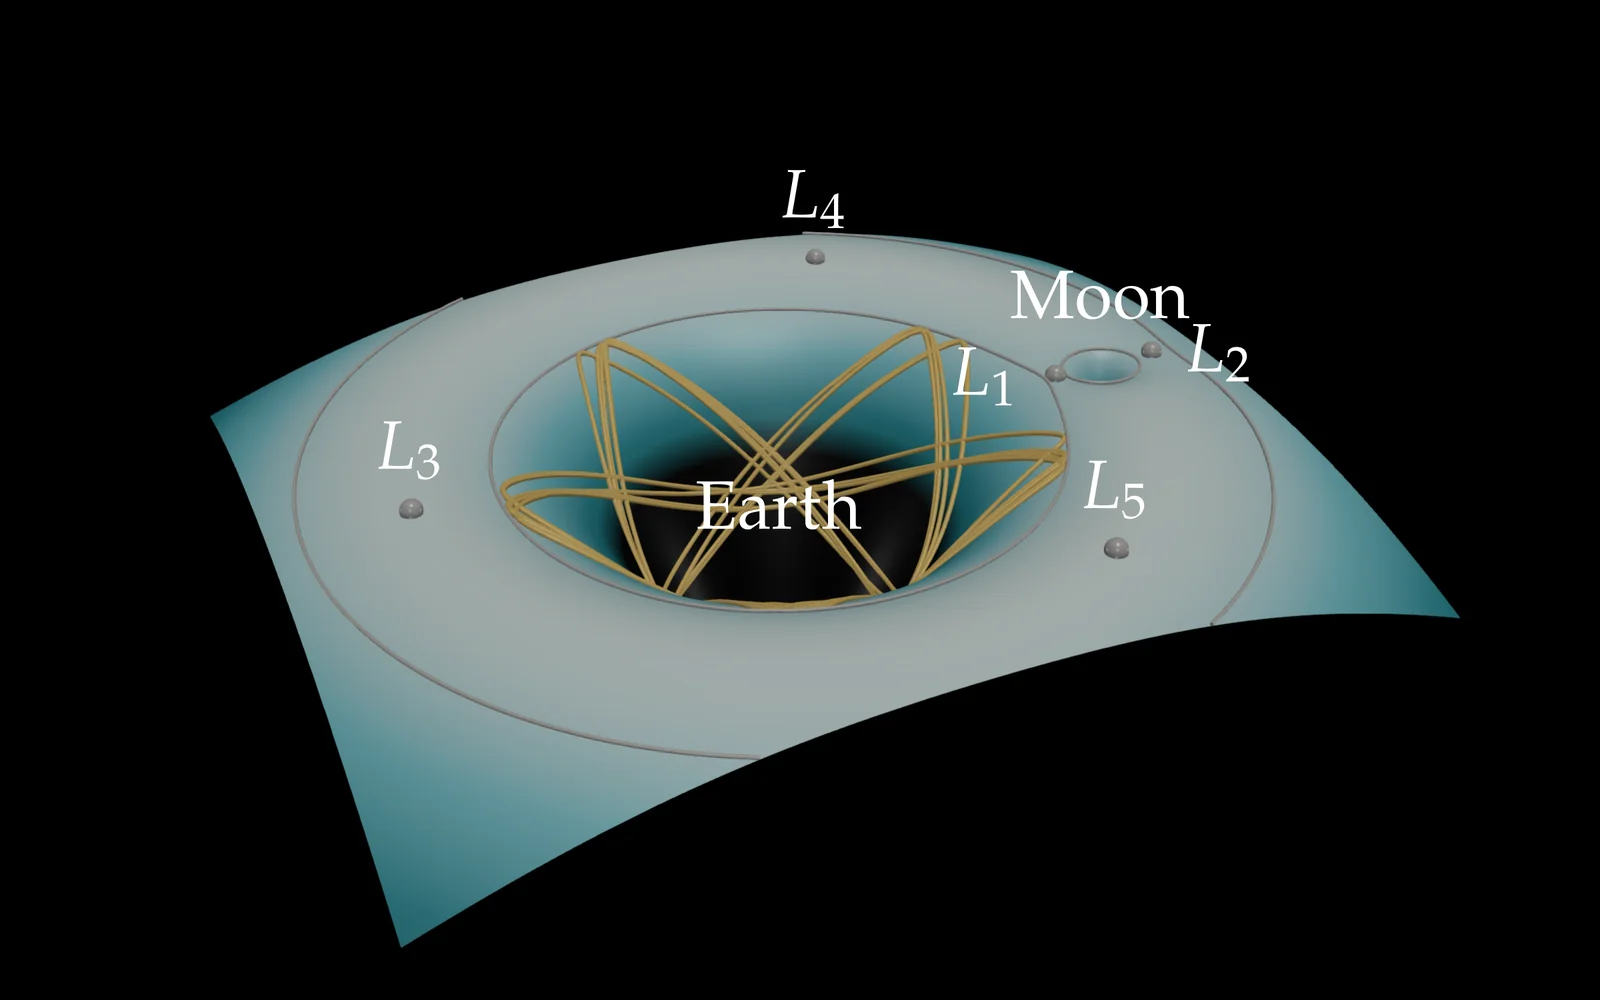
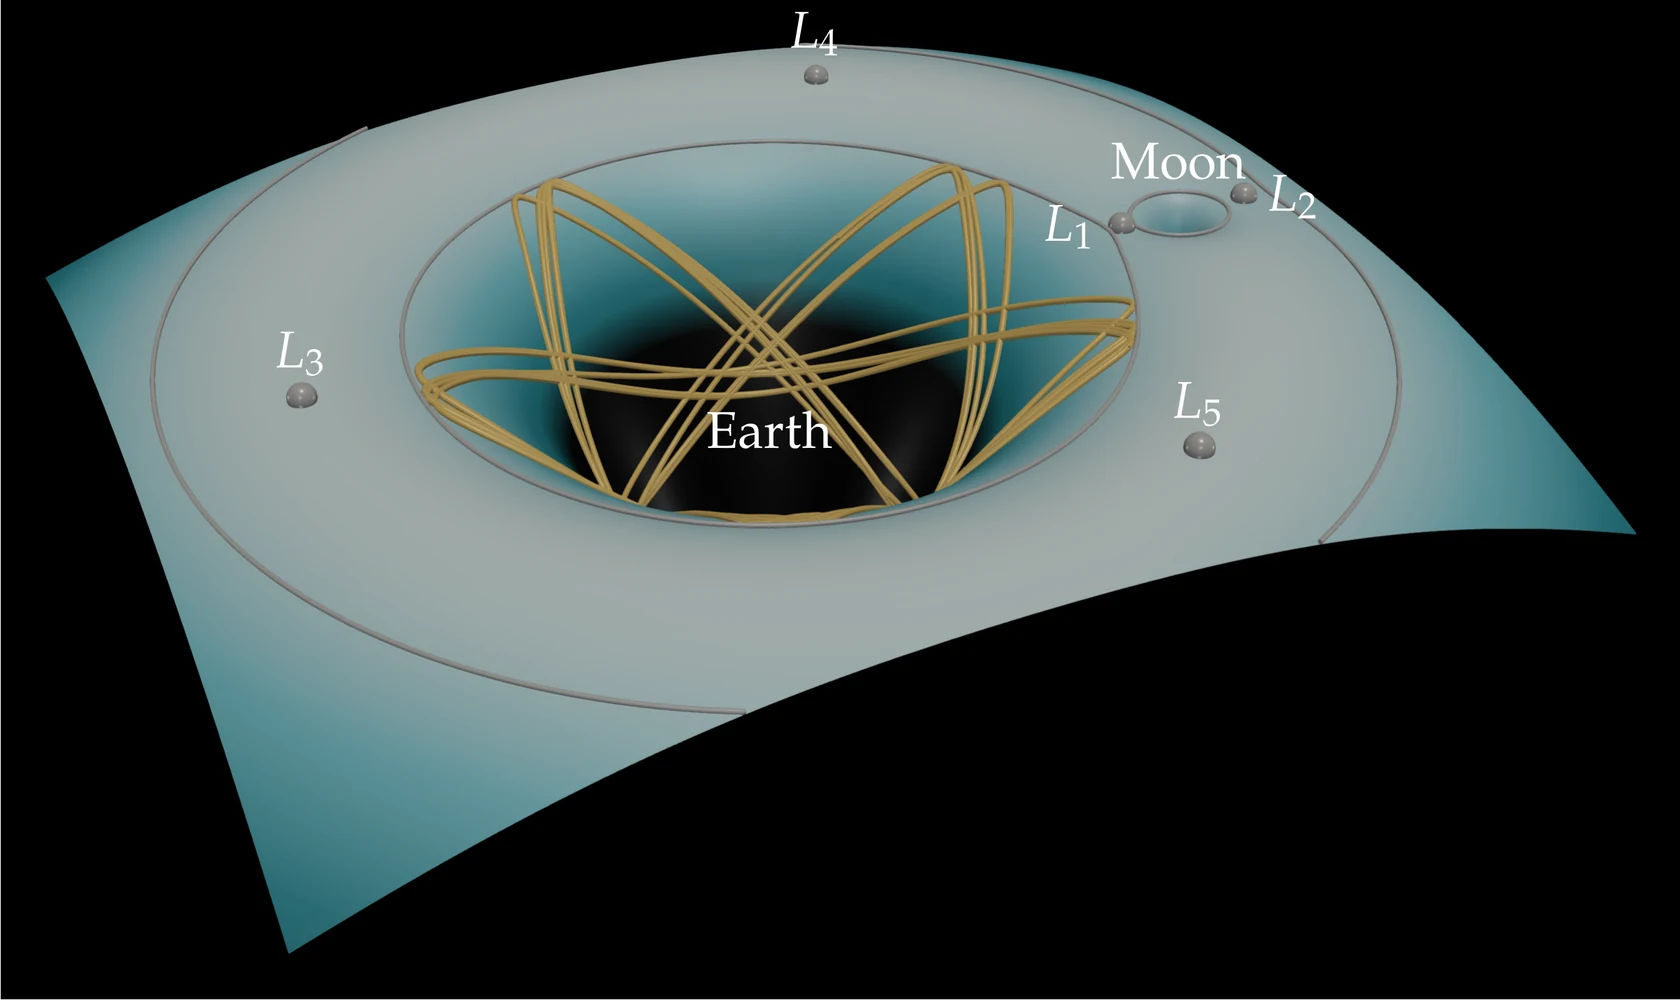
Figure to the OpenONDA figure spec; README shows it at 560 px
Cropped to its content, labels above panels on a shared baseline, a
short colour bar in the bottom-right corner, brushed-metal solids, and a
check that no text covers the drawing.

diff --git a/scripts/render/overlay.py b/scripts/render/overlay.py
@@ -1,94 +1,166 @@
-"""LaTeX overlay for the website renders, after the OpenONDA tutorial figures.
+"""LaTeX overlay for the website and README figures, after the OpenONDA tutorial figures.
 
-Puts a raw render on a fixed 16:10 canvas (90 mm x 56.25 mm) and adds white
-New PX text at 10.95 pt plus at most one vertical colour bar with end ticks.
-At the 600 px card width that text is about 26 px high, so it stays legible.
+Figure spec
+- Canvas 125 mm wide (the OpenONDA figure width), height set by the content.
+- Text: New PX at 10.95 pt, white on black. That is about 3 % of the image
+  width, so it reads as ~12.5 pt where READMEs show the figure 560 px wide and
+  ~10.5 pt on the 475 px website cards.
+- Each panel is trimmed to its content (anything brighter than the background)
+  plus a small margin, so there is no empty headroom.
+- Panel labels sit in a strip above their panel; the single colour bar is short
+  and sits in the bottom-right corner, in its own column. Neither may cover
+  the drawing: compose() checks that every pixel the overlay changes was
+  background, and fails otherwise.
 Writes <stem>.pdf, <stem>.png (2400 px wide) and <stem>.webp (quality 85).
 
-    compose("raw.png", "out/figure", bar=dict(name="thesis_blue", vmin=0, vmax=5,
-            title=r"$|\\omega|$ [1/s]"), labels=[(60, 40, r"$\\mathbf{U}$")])
+    compose([("raw.png", "Rotor only"), ("raw2.png", "Four wings")], "out/fig",
+            bar=dict(name="thesis_blue", vmin=0, vmax=0.6, title=r"$1-u_x/U_\\infty$"))
 """
 import shutil
 import subprocess
 import tempfile
 from pathlib import Path
 
+import numpy as np
 from PIL import Image
 
 from onda_style import colour
 
-WIDTH_MM, HEIGHT_MM = 90.0, 56.25
+WIDTH_MM = 125.0
 PIXELS = 2400
+PX_PER_MM = PIXELS / WIDTH_MM
+MARGIN_MM = 2.5            # around the canvas edge and between panels
+LABEL_MM = 6.5             # strip above a labelled panel
+BAR = dict(width=2.2, height=16.0, column=17.0, labels=6.0)   # bar size, its column, room for tick labels [mm]
+BACKGROUND = 18            # grey level below which a pixel counts as background
+
+
+def trim(img, pad_mm=1.0, box_only=False):
+    """Crop to pixels brighter than the background, plus pad_mm (box_only: return the box)."""
+    a = np.asarray(img.convert("L"))
+    rows, cols = np.where(a > BACKGROUND)
+    pad = int(pad_mm * PX_PER_MM)
+    box = (max(cols.min() - pad, 0), max(rows.min() - pad, 0),
+           min(cols.max() + pad + 1, img.width), min(rows.max() + pad + 1, img.height))
+    return box if box_only else img.crop(box)
 
 
 def _num(v):
-    return f"{v:.2g}".replace("e+0", "e").replace("-", "$-$") if isinstance(v, float) else str(v)
+    return f"{v:g}".replace("-", "$-$")
 
 
-def compose(raw, stem, bar=None, labels=(), crop=None):
-    """bar: dict(name, vmin, vmax, title, fade=0.0, x=4, y=14, height=24, ticks=None)
-    labels: (x_mm, y_mm, latex, anchor) from the lower-left corner.
-    crop: (left, top, right, bottom) fractions removed from the raw image."""
-    raw, stem = Path(raw).resolve(), Path(stem)
+def compose(panels, stem, bar=None, layout="column", check=True, notes=()):
+    """panels: list of (image path, label or None); layout: "column" or "row".
+    notes: point annotations on the first panel, (fx, fy, text, anchor, dx_mm, dy_mm) with
+    fx, fy fractions of the raw image from its lower-left corner. Notes are meant to sit
+    on the drawing, so the overlap check ignores them.
+    bar: dict(name, vmin, vmax, title, fade=0.0, ticks=[(fraction, text), ...])."""
+    stem = Path(stem)
     stem.parent.mkdir(parents=True, exist_ok=True)
-    work = Path(tempfile.mkdtemp())
-    img = Image.open(raw).convert("RGB")
-    if crop:
-        w, h = img.size
-        img = img.crop((int(crop[0] * w), int(crop[1] * h), int(w - crop[2] * w), int(h - crop[3] * h)))
-    # fill the canvas: scale to cover 16:10, centred
-    target = WIDTH_MM / HEIGHT_MM
-    w, h = img.size
-    if w / h > target:
-        nw = int(h * target)
-        img = img.crop(((w - nw) // 2, 0, (w - nw) // 2 + nw, h))
+    raws = [Image.open(p).convert("RGB") for p, _ in panels]
+    boxes = [trim(r, box_only=True) for r in raws]
+    imgs = [r.crop(b) for r, b in zip(raws, boxes)]
+    labels = [lab for _, lab in panels]
+    bar_mm = BAR["column"] if bar else 0.0
+    avail = WIDTH_MM - 2 * MARGIN_MM - bar_mm
+    if layout == "column":
+        widths = [avail] * len(imgs)
+    else:   # row: equal heights, total width = avail
+        gaps = MARGIN_MM * (len(imgs) - 1)
+        k = sum(i.width / i.height for i in imgs)
+        widths = [(avail - gaps) * (i.width / i.height) / k for i in imgs]
+    heights = [w * i.height / i.width for w, i in zip(widths, imgs)]
+    lab_mm = LABEL_MM if any(labels) else 0.0
+    if layout == "column":
+        H = MARGIN_MM + sum(h + lab_mm for h in heights) + MARGIN_MM * len(imgs)
     else:
-        nh = int(w / target)
-        img = img.crop((0, (h - nh) // 2, w, (h - nh) // 2 + nh))
-    img.save(work / "raw.png")
-
-    body = [rf"\node[anchor=south west,inner sep=0] at (0,0) {{\includegraphics[width={WIDTH_MM}mm,height={HEIGHT_MM}mm]{{raw.png}}}};"]
+        H = 2 * MARGIN_MM + lab_mm + max(heights)
     if bar:
-        x, y, hgt, wid = bar.get("x", 4.0), bar.get("y", 14.0), bar.get("height", 24.0), 3.2
+        H = max(H, BAR["height"] + 12.0)
+    H = round(H, 2)
+
+    # base raster: panels on black, positions in mm from the top-left
+    W_px, H_px = PIXELS, int(round(H * PX_PER_MM))
+    base = Image.new("RGB", (W_px, H_px))
+    places, y, x = [], MARGIN_MM, MARGIN_MM
+    for img, w, h in zip(imgs, widths, heights):
+        if layout == "column":
+            px, py = MARGIN_MM, y + lab_mm
+            y = py + h + MARGIN_MM
+        else:
+            px, py = x, MARGIN_MM + lab_mm + (max(heights) - h) / 2
+            x += w + MARGIN_MM
+        places.append((px, py, w, h))
+        base.paste(img.resize((int(w * PX_PER_MM), int(h * PX_PER_MM)), Image.LANCZOS),
+                   (int(px * PX_PER_MM), int(py * PX_PER_MM)))
+
+    work = Path(tempfile.mkdtemp())
+    base.save(work / "base.png")
+    body = []
+    for (px, py, w, h), lab in zip(places, labels):
+        if lab:   # in a row, all labels share one baseline above the tallest panel
+            top = MARGIN_MM + lab_mm if layout == "row" else py
+            body.append(rf"\node[anchor=base west,white,inner sep=0] at ({px + 0.5},{H - top + 2.0}) {{{lab}}};")
+    if bar:
+        bw, bh = BAR["width"], BAR["height"]
+        # tucked into the bottom-right corner: tick labels end at the right margin
+        bx = WIDTH_MM - MARGIN_MM - BAR["labels"] - 0.9 - bw
+        by = MARGIN_MM
         n = 64
         for k in range(n):
             r, g, b = colour(bar["name"], (k + 0.5) / n, bar.get("fade", 0.0))
             body.append(rf"\definecolor{{c{k}}}{{rgb}}{{{r:.4f},{g:.4f},{b:.4f}}}")
-            body.append(rf"\fill[c{k}] ({x},{y + hgt * k / n:.4f}) rectangle ({x + wid},{y + hgt * (k + 1) / n:.4f});")
-        body.append(rf"\draw[white,line width=0.6pt] ({x},{y}) rectangle ({x + wid},{y + hgt});")
+            body.append(rf"\fill[c{k}] ({bx},{by + bh * k / n:.4f}) rectangle ({bx + bw},{by + bh * (k + 1) / n:.4f});")
+        body.append(rf"\draw[white,line width=0.5pt] ({bx},{by}) rectangle ({bx + bw},{by + bh});")
         ticks = bar.get("ticks") or [(0.0, _num(bar["vmin"])), (1.0, _num(bar["vmax"]))]
         for f, text in ticks:
-            yy = y + hgt * f
-            body.append(rf"\draw[white,line width=0.6pt] ({x + wid},{yy}) -- ({x + wid + 1.2},{yy});")
-            body.append(rf"\node[anchor=west,white,inner sep=0.6mm] at ({x + wid + 1.2},{yy}) {{{text}}};")
-        body.append(rf"\node[anchor=south west,white,inner sep=0] at ({x - 0.4},{y + hgt + 2.4}) {{{bar['title']}}};")
-    for lab in labels:
-        xx, yy, text = lab[:3]
-        anchor = lab[3] if len(lab) > 3 else "center"
-        body.append(rf"\node[anchor={anchor},white,inner sep=0.5mm] at ({xx},{yy}) {{{text}}};")
-    tex = (r"""\documentclass[tikz,border=0pt]{standalone}
+            yy = by + bh * f
+            body.append(rf"\draw[white,line width=0.5pt] ({bx + bw},{yy}) -- ({bx + bw + 0.9},{yy});")
+            body.append(rf"\node[anchor=west,white,inner sep=0.5mm] at ({bx + bw + 0.9},{yy}) {{{text}}};")
+        body.append(rf"\node[anchor=south east,white,inner sep=0] at ({WIDTH_MM - MARGIN_MM},{by + bh + 2.2}) {{{bar['title']}}};")
+    def latex(name, lines):
+        tex = r"""\documentclass[tikz,border=0pt]{standalone}
 \usepackage[T1]{fontenc}
 \usepackage{newpxtext,newpxmath}
 \usepackage{graphicx}
 \begin{document}
 \begin{tikzpicture}[x=1mm,y=1mm,font=\fontsize{10.95}{13.1}\selectfont]
 \clip (0,0) rectangle (%s,%s);
-\fill[black] (0,0) rectangle (%s,%s);
+\node[anchor=south west,inner sep=0] at (0,0) {\includegraphics[width=%smm,height=%smm]{base.png}};
 %s
 \end{tikzpicture}
 \end{document}
-""" % (WIDTH_MM, HEIGHT_MM, WIDTH_MM, HEIGHT_MM, "\n".join(body)))
-    (work / "fig.tex").write_text(tex)
-    run = subprocess.run(["pdflatex", "-interaction=nonstopmode", "fig.tex"], cwd=work, capture_output=True, text=True)
-    if run.returncode:
-        raise RuntimeError(run.stdout[-2000:])
+""" % (WIDTH_MM, H, WIDTH_MM, H, "\n".join(lines))
+        (work / f"{name}.tex").write_text(tex)
+        run = subprocess.run(["pdflatex", "-interaction=nonstopmode", f"{name}.tex"], cwd=work, capture_output=True, text=True)
+        if run.returncode:
+            raise RuntimeError(run.stdout[-2000:])
+        subprocess.run(["pdftoppm", "-png", "-r", f"{PX_PER_MM * 25.4:.3f}", "-singlefile", f"{name}.pdf", name],
+                       cwd=work, check=True)
+        return Image.open(work / f"{name}.png").convert("RGB").resize((W_px, H_px), Image.LANCZOS)
+
+    note_lines = []
+    if notes:
+        (px, py, w, h), (x0, y0, x1, y1), raw0 = places[0], boxes[0], raws[0]
+        for fx, fy, text, anchor, dx, dy in notes:
+            ix, iy = fx * raw0.width, (1 - fy) * raw0.height          # raw pixels from the top-left
+            mx = px + (ix - x0) / (x1 - x0) * w + dx
+            my = H - (py + (iy - y0) / (y1 - y0) * h) + dy
+            note_lines.append(rf"\node[anchor={anchor},white,inner sep=0.4mm] at ({mx:.2f},{my:.2f}) {{{text}}};")
+    out = latex("fig", body + note_lines)
     shutil.copy(work / "fig.pdf", stem.with_suffix(".pdf"))
-    dpi = PIXELS / (WIDTH_MM / 25.4)
-    subprocess.run(["pdftoppm", "-png", "-r", f"{dpi:.3f}", "-singlefile", "fig.pdf", "out"], cwd=work, check=True)
-    out = Image.open(work / "out.png").convert("RGB")
-    out = out.resize((PIXELS, round(PIXELS * HEIGHT_MM / WIDTH_MM)), Image.LANCZOS)
+    if check:   # every pixel the overlay changes must have been background
+        plain = latex("plain", [])
+        furniture = latex("furniture", body) if note_lines else out
+        a, b = np.asarray(plain.convert("L")).astype(int), np.asarray(furniture.convert("L")).astype(int)
+        changed = np.abs(a - b) > 40
+        clash = changed & (a > BACKGROUND + 12)
+        if clash.sum() > 0.002 * max(changed.sum(), 1):
+            ys, xs = np.where(clash)
+            raise RuntimeError(f"overlay covers the drawing near x = {xs.mean() / PX_PER_MM:.0f} mm, "
+                               f"y = {ys.mean() / PX_PER_MM:.0f} mm from the top-left ({clash.sum()} px)")
     out.save(stem.with_suffix(".png"), optimize=True)
     out.save(stem.with_suffix(".webp"), quality=85, method=6)
     shutil.rmtree(work)
-    for ext in (".png", ".webp"):
-        print(stem.with_suffix(ext), f"{stem.with_suffix(ext).stat().st_size / 1e3:.0f} kB", out.size)
+    print(stem.with_suffix(".webp"), f"{stem.with_suffix('.webp').stat().st_size / 1e3:.0f} kB", out.size,
+          f"{WIDTH_MM:g} x {H:g} mm")

diff --git a/scripts/render/onda_style.py b/scripts/render/onda_style.py
@@ -7,7 +7,8 @@ Rules:
 - black background; the low end of each sequential map fades into it;
 - one-hue OpenONDA maps: thesis_blue for magnitudes, thesis_signed for signed
   fields with a meaningful zero (signed_dark on black), thesis_amber for streamlines and trajectories;
-- solids are matte grey PBR; no outlines, axes or floors;
+- solids are matte grey PBR; metal parts use metal() (brushed, grainy metal);
+  no outlines, axes or floors;
 - OpenGL with the OpenONDA light kit and filmic tone mapping;
 - text and the single colour bar are added afterwards by overlay.py (LaTeX,
   New PX), large enough to read at the figure's display size.
@@ -109,3 +110,70 @@ def save(view, path, width, height):
     view.Update()
     SaveScreenshot(str(path), view, ImageResolution=[width, height],
                    TransparentBackground=0, CompressionLevel=0)
+
+
+def _grain_textures(directory, size=512, seed=3):
+    """Brushed-metal textures: an ORM map (occlusion, roughness, metallic) with
+    streaky roughness, and a matching normal map. Written as PNG with VTK."""
+    from pathlib import Path
+
+    import numpy as np
+    from vtkmodules.util.numpy_support import numpy_to_vtk
+    from vtkmodules.vtkCommonDataModel import vtkImageData
+    from vtkmodules.vtkIOImage import vtkPNGWriter
+    rng = np.random.default_rng(seed)
+    noise = rng.standard_normal((size, size))
+    # streaks: smooth strongly along u (the brushing direction), lightly along v
+    k = np.exp(-np.linspace(-3, 3, 61) ** 2)
+    streak = np.apply_along_axis(lambda r: np.convolve(np.r_[r[-30:], r, r[:30]], k / k.sum(), "valid"), 1, noise)
+    fine = rng.standard_normal((size, size)) * 0.35
+    h = streak / streak.std() + fine
+    rough = np.clip(0.32 + 0.10 * h, 0.12, 0.7)
+    orm = np.stack([np.ones_like(h), rough, np.full_like(h, 0.2)], -1)   # partly metallic: a black
+    # background gives a fully metallic surface nothing to reflect, so keep some diffuse shading
+    gy, gx = np.gradient(h)
+    n = np.stack([-0.2 * gx, -0.2 * gy, np.ones_like(h)], -1)
+    n /= np.linalg.norm(n, axis=-1, keepdims=True)
+    paths = {}
+    for name, arr in (("metal_orm", orm), ("metal_normal", 0.5 * n + 0.5)):
+        img = vtkImageData()
+        img.SetDimensions(size, size, 1)
+        img.GetPointData().SetScalars(numpy_to_vtk((arr * 255).astype(np.uint8).reshape(-1, 3), deep=1))
+        path = Path(directory) / f"{name}.png"
+        w = vtkPNGWriter()
+        w.SetFileName(str(path))
+        w.SetInputData(img)
+        w.Write()
+        paths[name] = str(path)
+    return paths
+
+
+def metal(source, view, mapping="cylinder", rgb=(0.92, 0.93, 0.95), repeat=(4.0, 1.0)):
+    """Show ``source`` as brushed metal: metallic PBR with grainy roughness and
+    micro-normals. mapping: how texture coordinates are laid on (cylinder,
+    plane or sphere). Returns the display."""
+    import tempfile
+    from pathlib import Path as _P
+    from paraview.simple import (CreateTexture, ExtractSurface, Show, SurfaceNormals, SurfaceTangents,
+                                 TextureMaptoCylinder, TextureMaptoPlane, TextureMaptoSphere, Triangulate)
+    mapper = {"cylinder": TextureMaptoCylinder, "plane": TextureMaptoPlane, "sphere": TextureMaptoSphere}[mapping]
+    tc = mapper(Input=SurfaceNormals(Input=ExtractSurface(Input=source)))   # any dataset -> polygons
+    if mapping == "cylinder":
+        tc.PreventSeam = 0
+    tangents = SurfaceTangents(Input=Triangulate(Input=tc))   # tangents need triangles
+    tex = _grain_textures(_P(tempfile.mkdtemp()))
+    d = Show(tangents, view)
+    d.Representation = "Surface"
+    d.ColorArrayName = ["POINTS", ""]
+    d.DiffuseColor = d.AmbientColor = list(rgb)
+    d.Interpolation = "PBR"
+    d.Metallic = 1.0                       # scaled by the ORM texture's metallic channel
+    d.Roughness = 1.0                      # scaled by the ORM texture's roughness channel
+    d.MaterialTexture = CreateTexture(tex["metal_orm"])
+    d.NormalTexture = CreateTexture(tex["metal_normal"])
+    d.NormalScale = 1.0
+    d.RepeatTextures = 1
+    d.InterpolateTextures = 1
+    d.TextureTransform = "Transform2"
+    d.TextureTransform.Scale = [repeat[0], repeat[1], 1.0]
+    return d

diff --git a/scripts/render/compose_landscape.py b/scripts/render/compose_landscape.py
@@ -7,16 +7,13 @@ import sys
 from pathlib import Path
 
 sys.path.insert(0, str(Path(__file__).resolve().parent))
-from overlay import HEIGHT_MM, WIDTH_MM, compose  # noqa: E402
+from overlay import compose  # noqa: E402
 
 raw, stem = Path(sys.argv[1]), Path(sys.argv[2])
 pos = json.loads(Path(str(raw) + ".labels.json").read_text())
 # offsets [mm] and anchors chosen so labels sit beside their markers without overlapping
-place = {"Earth": (0, -3.6, "center"), "Moon": (0, 2.0, "south"), "$L_1$": (-1.4, 0, "east"),
+place = {"Earth": (0, -9.0, "center"), "Moon": (0, 2.0, "south"), "$L_1$": (-1.4, 0, "east"),
          "$L_2$": (1.4, 0, "west"), "$L_3$": (0, 1.2, "south"), "$L_4$": (0, 1.2, "south"),
          "$L_5$": (0, 1.2, "south")}
-labels = []
-for name, (fx, fy) in pos.items():
-    dx, dy, anchor = place.get(name, (0, 1.0, "south"))
-    labels.append((fx * WIDTH_MM + dx, fy * HEIGHT_MM + dy, name, anchor))
-compose(raw, stem, labels=labels)
+notes = [(fx, fy, name, place[name][2], place[name][0], place[name][1]) for name, (fx, fy) in pos.items()]
+compose([(raw, None)], stem, notes=notes)

diff --git a/scripts/render/render_landscape.py b/scripts/render/render_landscape.py
@@ -19,7 +19,7 @@ import onda_style as style  # noqa: E402
 from paraview.simple import Elevation, Glyph, Show, Tube, XMLPolyDataReader  # noqa: E402
 
 out = Path(sys.argv[1])
-width, height = (int(a) for a in (sys.argv[2:4] if len(sys.argv) > 3 else (2400, 1500)))
+width, height = (int(a) for a in (sys.argv[2:4] if len(sys.argv) > 3 else (3600, 2250)))
 DATA = HERE.parents[1] / "outputs" / "render"
 MU = 0.0121505856
 read = lambda name: XMLPolyDataReader(FileName=[str(DATA / name)])

diff --git a/README.md b/README.md
@@ -2,7 +2,7 @@
 
 **Orbits, Lagrange points and Poincaré sections of the restricted three-body problem.**
 
-![Effective-potential landscape of the Earth-Moon system with a computed rosette orbit in the Earth's well, the zero-velocity curve and the five Lagrange points](docs/assets/render.webp)
+<p align="center"><img src="docs/assets/render.webp" width="560" alt="Effective-potential landscape of the Earth-Moon system with a computed rosette orbit in the Earth's well, the zero-velocity curve and the five labelled Lagrange points"></p>
 
 A small Python exploration of the planar circular restricted three-body problem: trajectories in the rotating frame, the five Lagrange points, zero-velocity curves and Poincaré sections.
 
